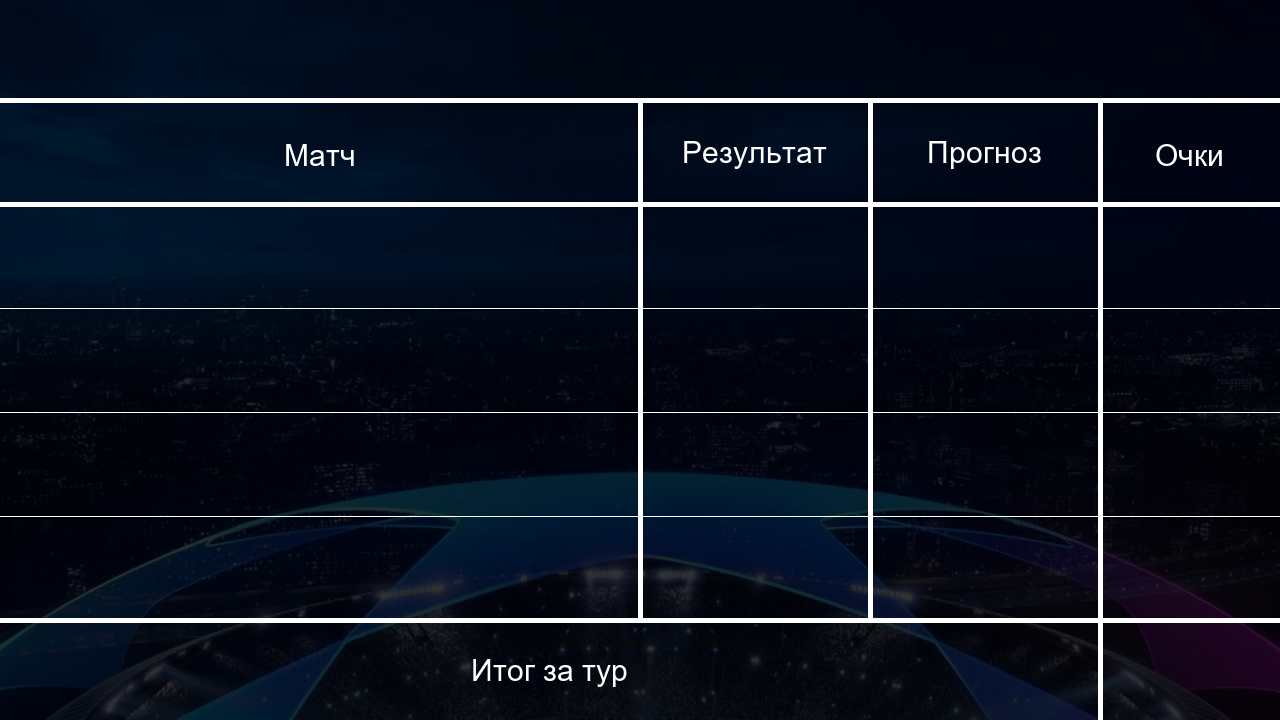
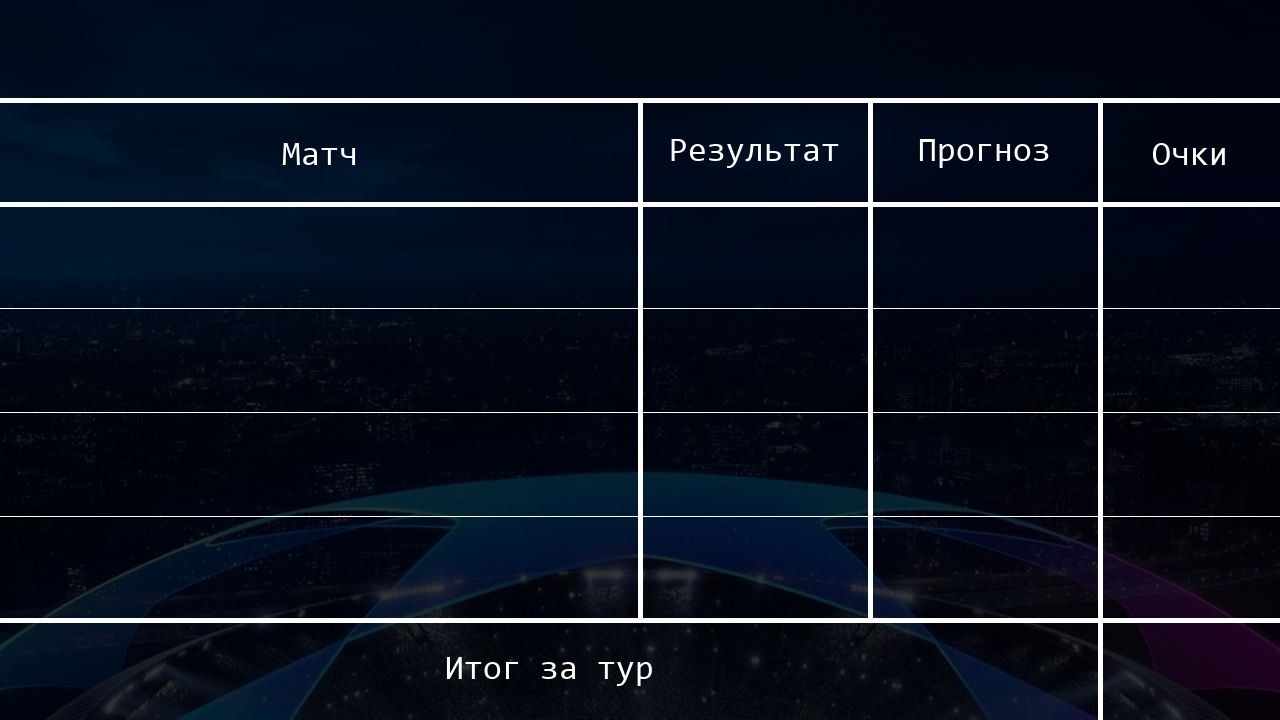
Добавить template_creator и обновить шаблоны

diff --git a/template_creator.py b/template_creator.py
@@ -1,0 +1,116 @@
+from PIL import Image, ImageEnhance, ImageDraw, ImageFont
+from config_data import config
+
+
+dark_factor = 0.2
+wide_line = 5
+thin_line = 1
+
+def drawtext(imdraw, x, y, dx, dy, text, font_size=34):
+    font = ImageFont.truetype("images/Fonts/consolas.ttf", size=font_size)
+    _, _, w, h = imdraw.textbbox((0, 0), text, font = font)
+    text_x = (dx - w) // 2 + x
+    text_y = (dy - h) // 2 + y
+    imdraw.multiline_text((text_x, text_y), text, font=font, align="center")
+
+def create_background():
+    im = Image.open('images/table_templates/background.jpg')
+    im = im.resize((config.image_width, config.image_height))
+
+    img = ImageEnhance.Brightness(im).enhance(dark_factor)
+    img.save("images/table_templates/dark_background.png", "png")
+
+def create_template_points_tour():
+    place_size = {"x": 0, "dx": 150}
+    name_size = {"x": 150, "dx": 930}
+    points_size = {"x": 1080, "dx": 200}
+    dy = config.image_height / (config.NUMBER_OF_PLAYERS + 1)
+    img = Image.open("images/table_templates/dark_background.png")
+    imdraw = ImageDraw.Draw(img)
+    imdraw.line((name_size["x"], 0, name_size["x"], config.image_height), fill="white", width=wide_line)
+    imdraw.line((points_size["x"], 0, points_size["x"], config.image_height), fill="white", width=wide_line)
+    imdraw.line((0, dy, config.image_width, dy), fill="white", width=wide_line)
+
+    for i in range(1, config.NUMBER_OF_PLAYERS + 1):
+        imdraw.line((0, dy * i, config.image_width, dy * i), fill="white", width=thin_line)
+        drawtext(imdraw, place_size["x"], dy * i, place_size["dx"], dy, str(i))
+
+    drawtext(imdraw, place_size["x"], 0, place_size["dx"], dy, "Место")
+    drawtext(imdraw, name_size["x"], 0, name_size["dx"], dy, "Имя")
+    drawtext(imdraw, points_size["x"], 0, points_size["dx"], dy, "Очки")
+
+    # img.show()
+    img.save("images/table_templates/template_points_tour.png", "png")
+
+def create_template_result_tour():
+    head_size = 100
+    total_size = 100
+    dy = (config.image_height - head_size - total_size) / (config.COUNT_MATCHES_IN_TOUR + 1)
+    match_size = {"x": 0, "dx": 640}
+    result_size = {"x": 640, "dx": 230}
+    forecast_size = {"x": 870, "dx": 230}
+    points_size = {"x": 1100, "dx": 180}
+    img = Image.open("images/table_templates/dark_background.png")
+    imdraw = ImageDraw.Draw(img)
+    imdraw.line((0, head_size, config.image_width, head_size), fill="white", width=wide_line)    
+    imdraw.line((0, config.image_height - head_size, config.image_width, config.image_height - head_size), fill="white", width=wide_line) 
+    imdraw.line((0, head_size + dy, config.image_width, head_size + dy), fill="white", width=wide_line)  
+
+    for i in range(1, config.COUNT_MATCHES_IN_TOUR + 1):
+        imdraw.line((0, head_size + dy * i, config.image_width, head_size + dy * i), fill="white", width=thin_line)  
+
+    imdraw.line((result_size["x"], head_size, result_size["x"], config.image_height - total_size), fill="white", width=wide_line) 
+    imdraw.line((forecast_size["x"], head_size, forecast_size["x"], config.image_height - total_size), fill="white", width=wide_line) 
+    imdraw.line((points_size["x"], head_size, points_size["x"], config.image_height), fill="white", width=wide_line) 
+
+    drawtext(imdraw, match_size["x"], head_size, match_size["dx"], dy, "Матч")
+    drawtext(imdraw, result_size["x"], head_size, result_size["dx"], dy, "Результат")
+    drawtext(imdraw, forecast_size["x"], head_size, forecast_size["dx"], dy, "Прогноз")
+    drawtext(imdraw, points_size["x"], head_size, points_size["dx"], dy, "Очки")
+    drawtext(imdraw, match_size["x"], config.image_height - total_size, points_size["x"], total_size, "Итог за тур")
+
+    # img.show()
+    img.save("images/table_templates/template_result_tour.png", "png")
+
+def craete_template_main_table():
+    head_size = 80
+    offset_size = {"x": 0, "dx": 60}
+    place_size = {"x": 60, "dx": 60}
+    name_size = {"x": 120, "dx": 350}
+    tours_size = {"x": 470, "dx": 710}
+    sum_size = {"x": 1180, "dx": 100}
+    dy = (config.image_height - head_size) / config.NUMBER_OF_PLAYERS
+
+    img = Image.open("images/table_templates/dark_background.png")
+    imdraw = ImageDraw.Draw(img)
+    imdraw.line((0, head_size, config.image_width, head_size), fill="white", width=wide_line)
+    imdraw.line((place_size["x"], 0, place_size["x"], config.image_height), fill="white", width=wide_line)
+    imdraw.line((name_size["x"], 0, name_size["x"], config.image_height), fill="white", width=wide_line)
+    imdraw.line((tours_size["x"], 0, tours_size["x"], config.image_height), fill="white", width=wide_line)
+    imdraw.line((sum_size["x"], 0, sum_size["x"], config.image_height), fill="white", width=wide_line)
+
+    for i in range(1, config.NUMBER_OF_PLAYERS + 1):
+        imdraw.line((0, head_size + dy * i, config.image_width, head_size + dy * i), fill="white", width=thin_line)
+        drawtext(imdraw, place_size["x"], head_size + dy * (i - 1), place_size["dx"], dy, str(i))
+
+    tours_dx = tours_size["dx"] / config.NUMBER_OF_TOUR
+
+    for i in range(1, config.NUMBER_OF_TOUR + 1):
+        imdraw.line((tours_size["x"] + tours_dx * i, 0, tours_size["x"] + tours_dx * i, config.image_height))
+        drawtext(imdraw, tours_size["x"] + tours_dx * (i - 1), 0, tours_dx, head_size, "Тур\n" + str(i))
+
+    drawtext(imdraw, place_size["x"], 0, place_size["dx"], head_size, "№")
+    drawtext(imdraw, name_size["x"], 0, name_size["dx"], head_size, "Имя")
+    drawtext(imdraw, sum_size["x"], 0, sum_size["dx"], head_size, "Итог")
+    drawtext(imdraw, offset_size["x"], 0, offset_size["dx"], head_size, "+/-")
+
+    # img.show()
+    img.save("images/table_templates/template_main_table.png", "png")
+
+
+
+
+create_background()
+create_template_points_tour()
+create_template_result_tour()
+craete_template_main_table()

diff --git a/image_creator/table_creator.py b/image_creator/table_creator.py
@@ -55,8 +55,8 @@ def points_tour(data, tour):
 
     mk = Points_tour_markup()
 
-    for i, (name, pts) in enumerate(data):
-        drawtext(imdraw, mk.name_size["x"], mk.dy * (i + 1), mk.name_size["dx"], mk.dy, name)
-        drawtext(imdraw, mk.points_size["x"], mk.dy * (i + 1), mk.points_size["dx"], mk.dy, str(pts))
+    for i, (name, pts) in enumerate(data, start=1):
+        drawtext(imdraw, mk.name_size["x"], mk.dy * i, mk.name_size["dx"], mk.dy, name)
+        drawtext(imdraw, mk.points_size["x"], mk.dy * i, mk.points_size["dx"], mk.dy, str(pts))
     img.save("images/ready_tables/points_tour.png")
         

diff --git a/main.py b/main.py
@@ -1,7 +1,6 @@
 from loader import bot
 from config_data import config
 from keyboards.reply import my_marcup
-import handlers
 
 
 if __name__ == '__main__':
